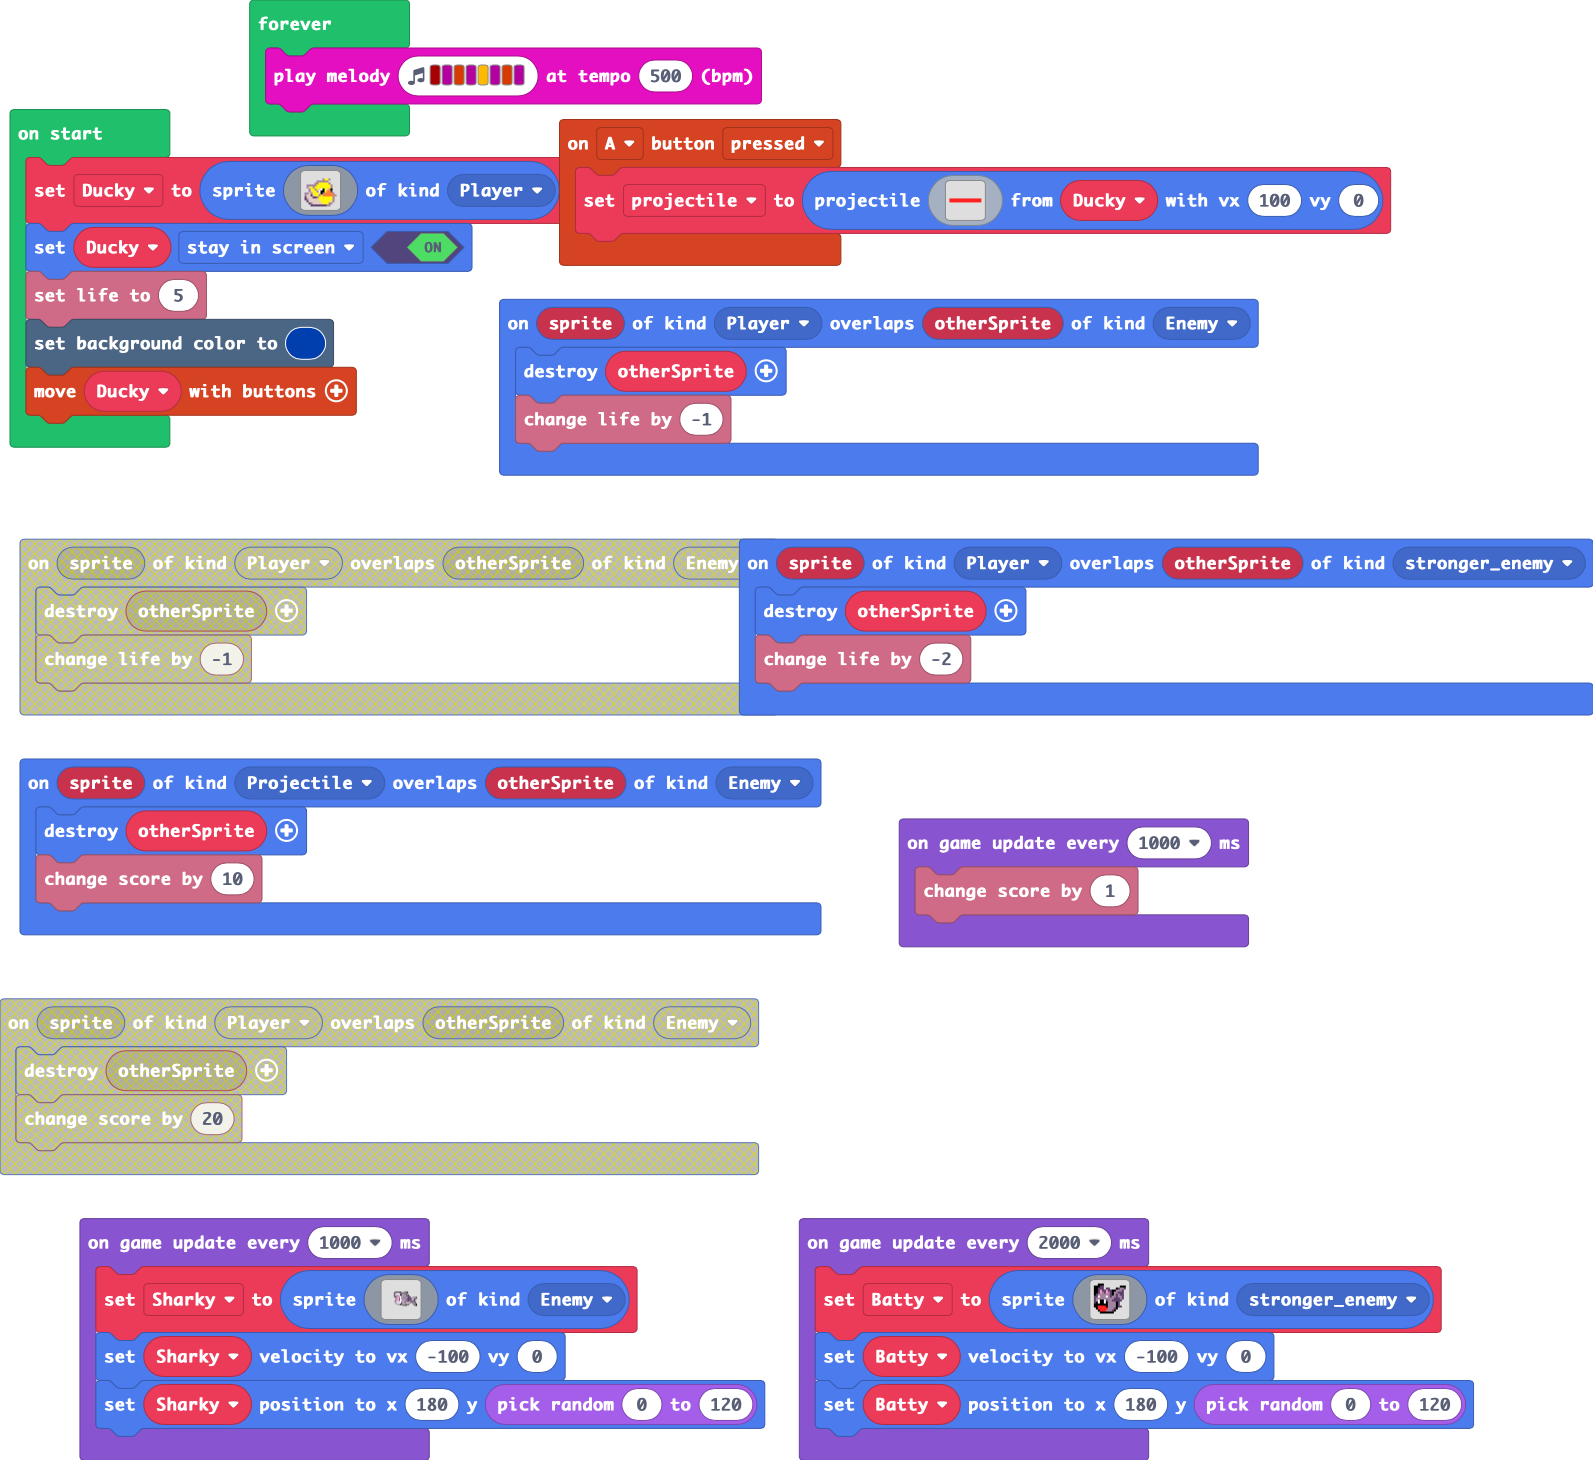
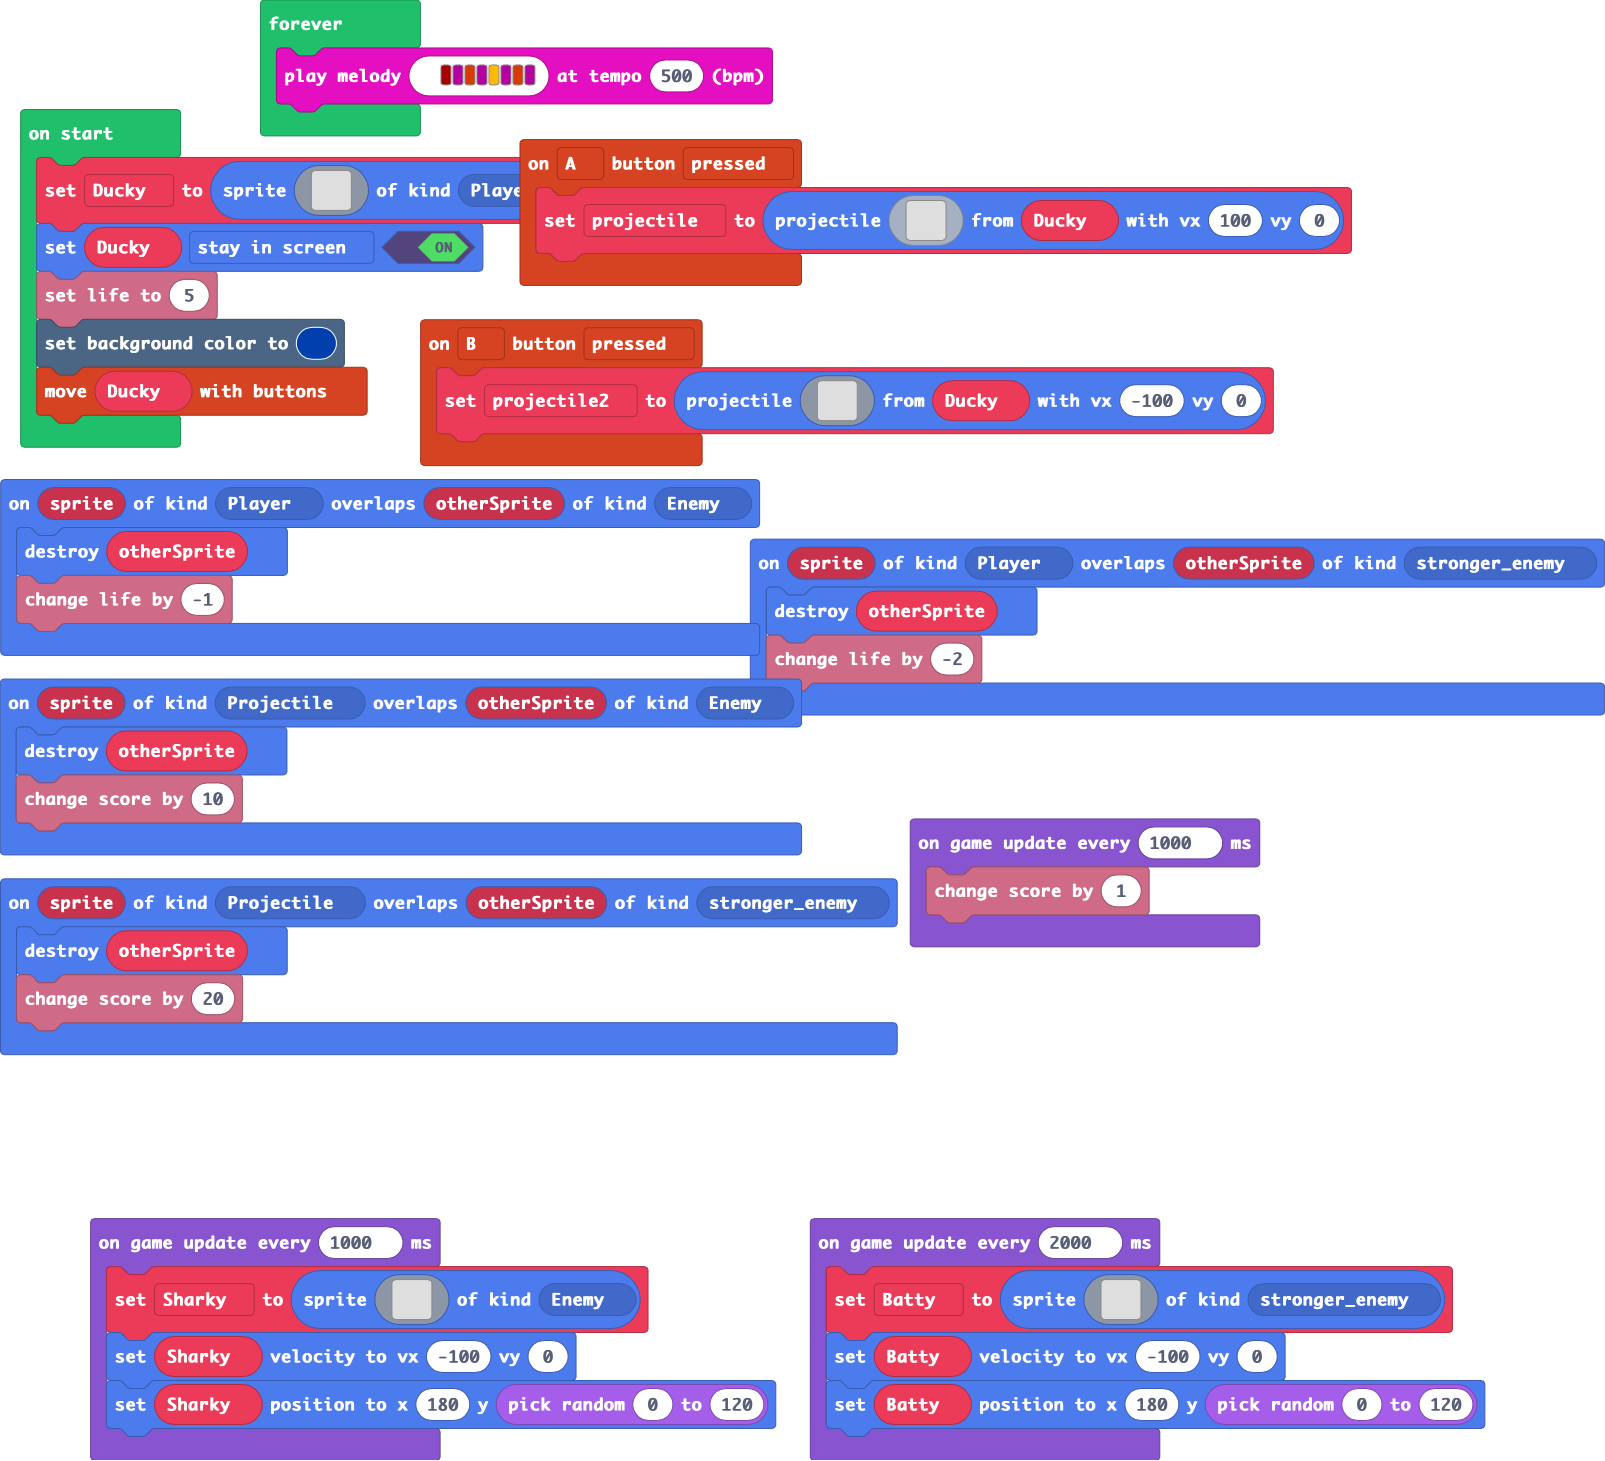
Update 1.7

Changed region(s): [[0.0, 0.0, 0.9222, 1.0]]

diff --git a/main.ts b/main.ts
@@ -1,6 +1,26 @@
 namespace SpriteKind {
     export const stronger_enemy = SpriteKind.create()
 }
+controller.B.onEvent(ControllerButtonEvent.Pressed, function () {
+    projectile2 = sprites.createProjectileFromSprite(img`
+        . . . . . . . . . . . . . . . . 
+        . . . . . . . e e . . . . . . . 
+        . . . . . . e e e e . . . . . . 
+        . . . . . e e e e e e . . . . . 
+        . . . . e e e e e e e e . . . . 
+        . . . e e e e e e e e e e . . . 
+        . . e e e e e e e e e e e e . . 
+        . e e e e e e e e e e e e e e . 
+        . e e e e e e e e e e e e e e . 
+        . . . . . . . . . . . . . . . . 
+        . . . . . . . . . . . . . . . . 
+        . . . . . . . . . . . . . . . . 
+        . . . . . . . . . . . . . . . . 
+        . . . . . . . . . . . . . . . . 
+        . . . . . . . . . . . . . . . . 
+        . . . . . . . . . . . . . . . . 
+        `, Ducky, -100, 0)
+})
 sprites.onOverlap(SpriteKind.Player, SpriteKind.stronger_enemy, function (sprite, otherSprite) {
     otherSprite.destroy()
     info.changeLifeBy(-2)
@@ -25,6 +45,10 @@ controller.A.onEvent(ControllerButtonEvent.Pressed, function () {
         . . . . . . . . . . . . . . . . 
         `, Ducky, 100, 0)
 })
+sprites.onOverlap(SpriteKind.Projectile, SpriteKind.stronger_enemy, function (sprite, otherSprite) {
+    otherSprite.destroy()
+    info.changeScoreBy(20)
+})
 sprites.onOverlap(SpriteKind.Projectile, SpriteKind.Enemy, function (sprite, otherSprite) {
     otherSprite.destroy()
     info.changeScoreBy(10)
@@ -36,6 +60,7 @@ sprites.onOverlap(SpriteKind.Player, SpriteKind.Enemy, function (sprite, otherSp
 let Sharky: Sprite = null
 let Batty: Sprite = null
 let projectile: Sprite = null
+let projectile2: Sprite = null
 let Ducky: Sprite = null
 Ducky = sprites.create(img`
     . . . . . . . . . . . . . . . . 
